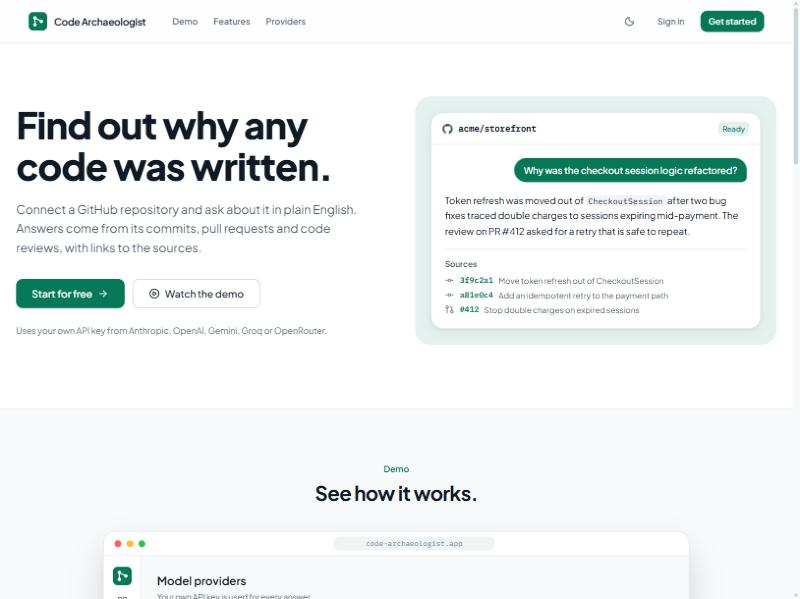
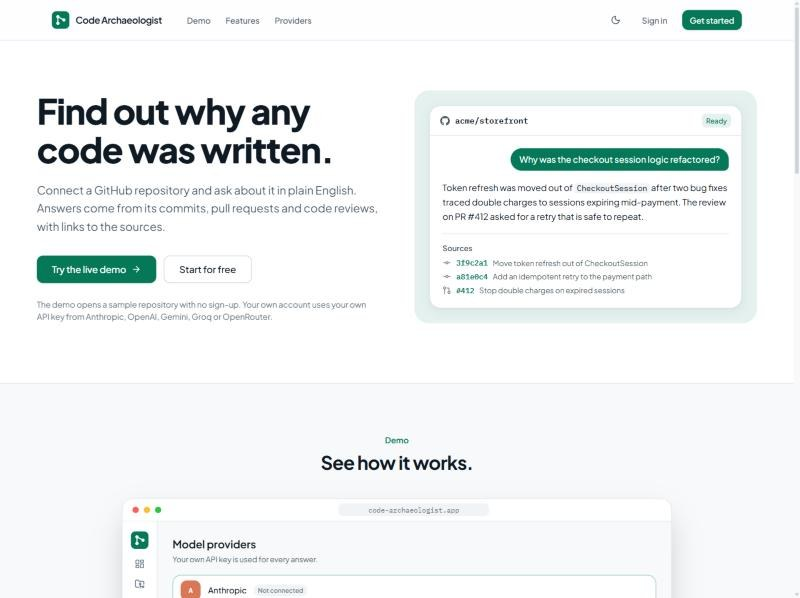
README: live demo screenshots; ask to keep the ingest page open
New landing and Who broke it? screenshots taken from the live demo as a
signed-out visitor. The ingest progress screen no longer says it's safe to
leave: on free hosting the server can sleep when nobody has the site open,
which stops the ingest.

diff --git a/frontend/src/pages/repo/RepoPage.tsx b/frontend/src/pages/repo/RepoPage.tsx
@@ -67,7 +67,7 @@ function IngestProgress({ repo }: { repo: Repo }) {
           );
         })}
       </ol>
-      <p className="mt-6 text-xs text-subtle">You can leave this page — ingestion keeps running in the background.</p>
+      <p className="mt-6 text-xs text-subtle">Keep this page open until it's ready. On free hosting the server can go to sleep when nobody has the site open, which stops the ingest.</p>
     </Card>
   );
 }

diff --git a/README.md b/README.md
@@ -21,9 +21,9 @@ You bring your own model: connect an **Anthropic, OpenAI, Google Gemini, Groq or
 
 *On the live site, asking [pallets/flask](https://github.com/pallets/flask) why `app.query` was added: it searches the history, finds the commits, and the answer streams in, citing the commits it used.*
 
-![Landing page](docs/screenshots/landing.jpg)
+![The landing page, with Try the live demo and Start for free](docs/screenshots/landing.jpg)
 
-The landing page plays an animated walkthrough of the whole flow: connect a model, ingest a repository, ask why, explore the history.
+**Try the live demo** opens a sample repository (pallets/flask) with no sign-up. Further down, the landing page plays an animated walkthrough of the whole flow: connect a model, ingest a repository, ask why, explore the history.
 
 ![Animated walkthrough](docs/screenshots/walkthrough.jpg)
 
@@ -87,9 +87,9 @@ Code Archaeologist makes that history answerable:
 
 *Bug origins traces each fix back to the commit that most likely caused it, and flags commits that needed several fixes.*
 
-![Who broke it? ranking three suspect commits for a bug report, each with a score and the reasons it was flagged](docs/screenshots/who-broke-it.jpg)
+![Who broke it? in the live demo, ranking suspect commits for a session-cookie bug, each with a score and the reasons it was flagged](docs/screenshots/who-broke-it.jpg)
 
-*Who broke it? takes a bug report with a stack-trace line and ranks the three most likely culprit commits, with the reasons for each.*
+*In the live demo, a report about the session cookie with `SESSION_COOKIE_PARTITIONED` and a stack-trace line. The suspects changed the code and the file it names, and the second is the commit that added that setting.*
 
 ## Bring your own model
 
